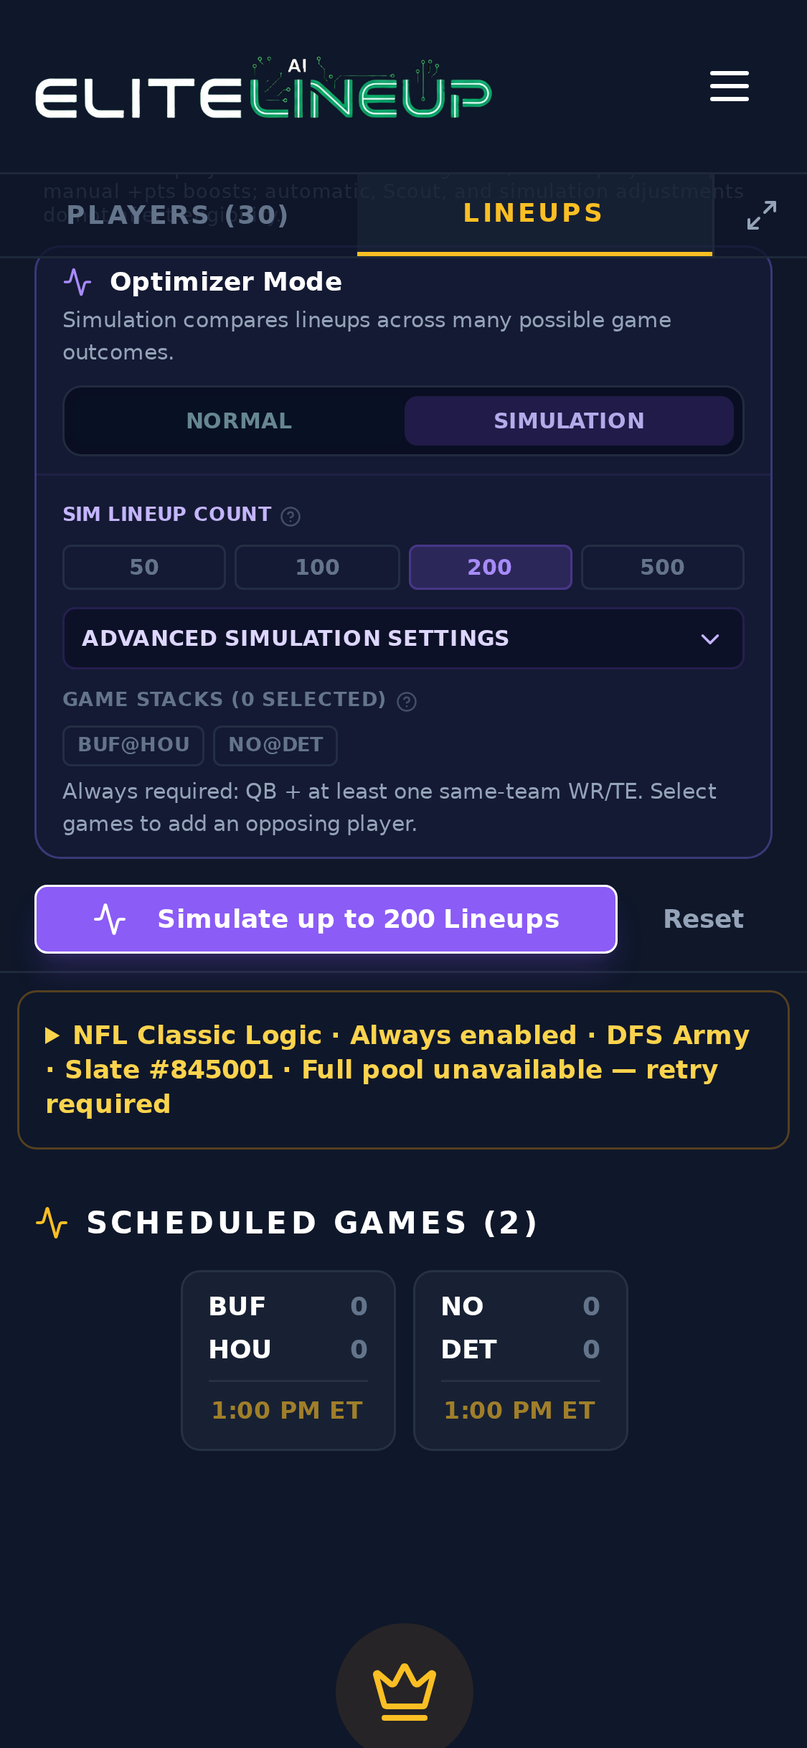
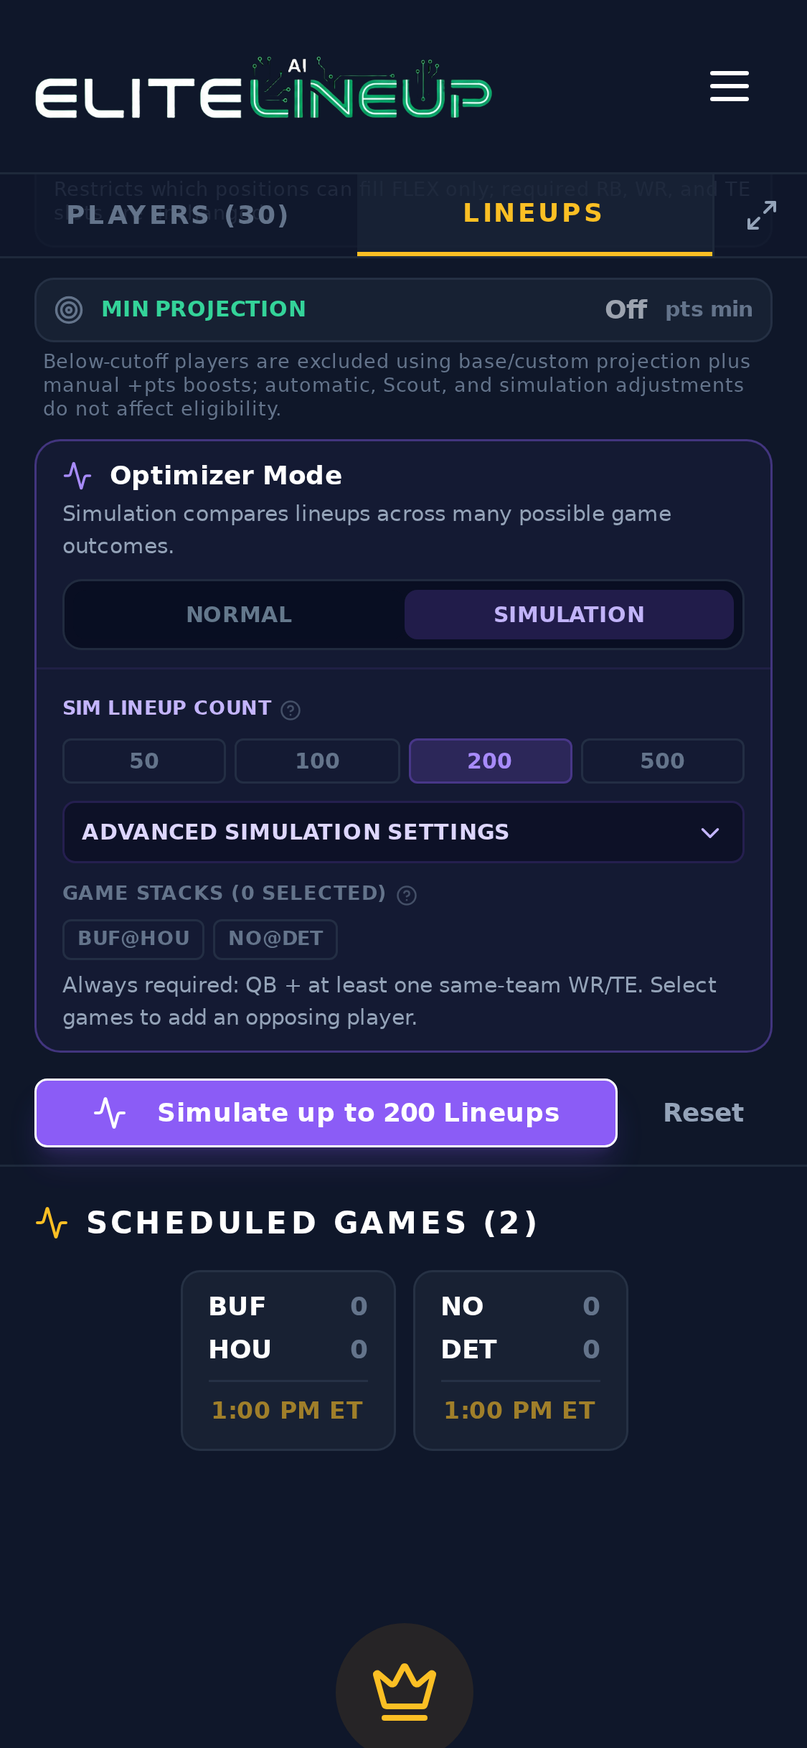
Restored to 76c5adc8257f7eef6a951c2eaf48e008f8643224
Replit-Restored-To: 76c5adc8257f7eef6a951c2eaf48e008f8643224

diff --git a/client/src/pages/PlayerConfiguration.tsx b/client/src/pages/PlayerConfiguration.tsx
@@ -70,7 +70,7 @@ export default function PlayerConfiguration() {
   const [sort, setSort] = useState<Sort>("name");
   const [error, setError] = useState<string | null>(null);
   const [undo, setUndo] = useState<{ player: Player; override: Override } | null>(null);
-  const initializedSlateRef = useRef<string | null>(null);
+  const initializedSlateRef = useRef<number | null>(null);
   const baselineRef = useRef<Record<number, Draft>>({});
   baselineRef.current = baseline;
 
@@ -79,7 +79,7 @@ export default function PlayerConfiguration() {
   }, [slates, slateId]);
 
   const configQuery = useQuery<Configuration>({
-    queryKey: ["/api/player-configuration", user?.id, slateId],
+    queryKey: ["/api/player-configuration", slateId],
     queryFn: async () => {
       const res = await fetch(`/api/player-configuration/${slateId}`, { credentials: "include" });
       if (!res.ok) {
@@ -92,7 +92,7 @@ export default function PlayerConfiguration() {
       }
       return res.json();
     },
-    enabled: !!user && slateId > 0,
+    enabled: slateId > 0,
   });
   const config = configQuery.data;
   const isReadOnly = !!config?.isExpired;
@@ -101,9 +101,8 @@ export default function PlayerConfiguration() {
     if (!config) return;
     const next: Record<number, Draft> = {};
     config.players.forEach(player => { next[player.id] = cleanDraft(player.id, config.overrides.find(o => o.playerId === player.id)); });
-    const scope = `${user?.id}:${config.slate.id}`;
-    if (initializedSlateRef.current !== scope) {
-      initializedSlateRef.current = scope;
+    if (initializedSlateRef.current !== config.slate.id) {
+      initializedSlateRef.current = config.slate.id;
       baselineRef.current = next;
       setDrafts(next); setBaseline(next); setError(null); setUndo(null);
       return;
@@ -118,17 +117,10 @@ export default function PlayerConfiguration() {
       const wasUntouched = JSON.stringify(currentDraft) === JSON.stringify(previous[player.id]);
       return [player.id, wasUntouched ? next[player.id] : currentDraft];
     })));
-  }, [config, user?.id]);
+  }, [config]);
 
   const dirtyIds = useMemo(() => Object.keys(drafts).map(Number).filter(id => JSON.stringify(drafts[id]) !== JSON.stringify(baseline[id])), [drafts, baseline]);
-  const setDraft = (id: number, updates: Partial<Draft>) => setDrafts(current => {
-    const next = { ...(current[id] ?? cleanDraft(id)), ...updates };
-    if (next.isExcluded) {
-      next.isLocked = false;
-      if ((next.minExposure ?? 0) > 0) next.minExposure = null;
-    }
-    return { ...current, [id]: next };
-  });
+  const setDraft = (id: number, updates: Partial<Draft>) => setDrafts(current => ({ ...current, [id]: { ...(current[id] ?? cleanDraft(id)), ...updates } }));
   const selectSlate = (id: number) => {
     if (id === slateId) return;
     if (dirtyIds.length && !window.confirm("Discard unsaved player changes and switch slates?")) return;
@@ -217,7 +209,7 @@ export default function PlayerConfiguration() {
   }
   if (!config) return null;
 
-  return <div className="min-h-[100dvh] w-full min-w-0 max-w-[100vw] overflow-x-hidden bg-[#0F172A] text-slate-100">
+  return <div className="min-h-[100dvh] bg-[#0F172A] text-slate-100">
     <div className="mx-auto max-w-[1500px] px-3 py-5 sm:px-6 lg:py-8">
       <header className="rounded-2xl border border-slate-700/80 bg-slate-900/70 p-5 shadow-2xl shadow-slate-950/20">
         <div className="flex flex-col justify-between gap-5 lg:flex-row lg:items-start">
@@ -238,23 +230,17 @@ export default function PlayerConfiguration() {
             <select aria-label="Filter team" value={team} onChange={e => setTeam(e.target.value)} className="h-10 rounded-md border border-slate-700 bg-slate-950 px-3 text-sm"><option>ALL</option>{teams.map(value => <option key={value}>{value}</option>)}</select></div>
           <div className="flex items-center gap-3"><label className="flex items-center gap-2 whitespace-nowrap text-xs font-bold text-slate-400"><Switch checked={overCapOnly} onCheckedChange={setOverCapOnly} />Above saved cap</label><Button variant="outline" size="sm" onClick={() => setSort(sort === "name" ? "exposure" : "name")}><Filter className="mr-1 h-3.5 w-3.5" />Sort: {sort}</Button>{!isReadOnly && <Button variant="outline" size="sm" onClick={() => { if (window.confirm("Clear all personal player settings for this slate?")) clearMutation.mutate(slateId); }} disabled={clearMutation.isPending}><RotateCcw className="mr-1 h-3.5 w-3.5" />Clear slate</Button>}</div>
         </div>
-        {!isReadOnly && dirtyIds.length > 0 && <div className="space-y-2 border-b border-amber-500/30 p-3">
-          <p role="status" className="text-sm text-amber-200">{dirtyIds.length} player(s) have unsaved changes. Exclusion clears locks and positive minimum exposure.</p>
-          <div className="flex flex-wrap gap-2">{config.players.filter(p => dirtyIds.includes(p.id)).map(player =>
-            <Button key={player.id} size="sm" disabled={saveMutation.isPending} onClick={() => savePlayer(player)}>Save {player.name}</Button>
-          )}</div>
-        </div>}
-        <div className="overflow-x-auto"><table className="w-full min-w-[1120px] text-left"><thead className="bg-slate-950/60 text-[10px] uppercase tracking-wider text-slate-500"><tr><th className="px-4 py-3">Player</th><th>Saved exposure</th><th>Projection</th><th>Boost</th><th>Min / Max per batch</th><th>Exclusion</th><th>Lock</th><th>Notes</th><th className="pr-4 text-right">Actions</th></tr></thead>
+        <div className="overflow-x-auto"><table className="w-full min-w-[1120px] text-left"><thead className="bg-slate-950/60 text-[10px] uppercase tracking-wider text-slate-500"><tr><th className="px-4 py-3">Player</th><th>Saved exposure</th><th>Projection</th><th>Boost</th><th>Min / Max per batch</th><th>Include</th><th>Lock</th><th>Notes</th><th className="pr-4 text-right">Actions</th></tr></thead>
           <tbody className="divide-y divide-slate-800">{rows.map(player => { const draft = drafts[player.id] ?? cleanDraft(player.id); const exposure = config.exposures[String(player.id)]; const over = draft.maxExposure !== null && (exposure?.pct ?? 0) > draft.maxExposure; const field = (key: "minExposure" | "maxExposure") => ({ value: draft[key] ?? "", onChange: (e: ChangeEvent<HTMLInputElement>) => setDraft(player.id, { [key]: inputNumber(e.target.value) }) }); return <tr key={player.id} className={over ? "bg-amber-500/[.045]" : ""}>
             <td className="px-4 py-3"><div className="font-bold text-slate-100">{player.name}</div><div className="mt-0.5 text-xs text-slate-500">{player.position} · {player.team} · ${player.salary.toLocaleString()}</div></td>
             <td className="py-3"><div className={over ? "font-black text-amber-300" : "font-bold text-slate-300"}>{exposure ? formatExposurePct(exposure.pct) : "—"}</div><div className="text-[11px] text-slate-500">{exposure ? `${exposure.count} of ${config.lineupCount}` : "No saved exposure"}</div></td>
             <td><Input aria-label={`${player.name} custom projection`} disabled={isReadOnly} type="number" min="0" max="500" step="0.1" value={draft.customProjection ?? ""} onChange={e => setDraft(player.id, { customProjection: inputNumber(e.target.value) })} placeholder={String(player.projectedPoints)} className="h-8 w-20 border-slate-700 bg-slate-950 px-2 text-xs" /></td>
             <td><select aria-label={`${player.name} boost`} disabled={isReadOnly} value={draft.boostPercent} onChange={e => setDraft(player.id, { boostPercent: Number(e.target.value) as 0 | 5 | 10 | 15 | 20 })} className="h-8 rounded border border-slate-700 bg-slate-950 px-1 text-xs">{[0,5,10,15,20].map(v => <option key={v} value={v}>{v}%</option>)}</select></td>
             <td><div className="flex items-center gap-1"><Input aria-label={`${player.name} minimum exposure`} disabled={isReadOnly} type="number" min="0" max="100" {...field("minExposure")} className="h-8 w-14 border-slate-700 bg-slate-950 px-2 text-xs" /><span className="text-slate-600">/</span><Input aria-label={`${player.name} maximum exposure`} disabled={isReadOnly} type="number" min="0" max="100" {...field("maxExposure")} className="h-8 w-14 border-slate-700 bg-slate-950 px-2 text-xs" /></div></td>
-            <td><Switch aria-label={`${player.name} Exclusion`} disabled={isReadOnly} checked={draft.isExcluded} onCheckedChange={checked => setDraft(player.id, { isExcluded: checked })} /><div className={`text-xs ${draft.isExcluded ? "text-amber-300" : "text-slate-400"}`}>{draft.isExcluded ? "Excluded" : "Eligible"}</div></td>
+            <td><Switch aria-label={`${player.name} excluded`} disabled={isReadOnly} checked={draft.isExcluded} onCheckedChange={checked => setDraft(player.id, { isExcluded: checked, ...(checked ? { isLocked: false } : {}) })} /></td>
             <td><Switch aria-label={`${player.name} locked`} disabled={isReadOnly} checked={draft.isLocked} onCheckedChange={checked => setDraft(player.id, { isLocked: checked })} /></td>
             <td><Input aria-label={`${player.name} notes`} disabled={isReadOnly} maxLength={200} value={draft.notes ?? ""} onChange={e => setDraft(player.id, { notes: e.target.value || null })} className="h-8 w-40 border-slate-700 bg-slate-950 px-2 text-xs" /></td>
-            <td className="pr-4 text-right"><div className="flex justify-end gap-1">{!isReadOnly && <Button aria-label={`Save row for ${player.name}`} size="sm" className="h-8 px-2" disabled={!dirtyIds.includes(player.id) || saveMutation.isPending} onClick={() => savePlayer(player)}><Save className="mr-1 h-3.5 w-3.5" />Save</Button>}{!isReadOnly && baseline[player.id] && <Button variant="ghost" size="sm" className="h-8 px-2 text-slate-400" disabled={resetMutation.isPending} onClick={() => resetMutation.mutate({ playerId: player.id, targetSlateId: slateId })}><RotateCcw className="h-3.5 w-3.5" /><span className="sr-only">Reset {player.name}</span></Button>}</div></td>
+            <td className="pr-4 text-right"><div className="flex justify-end gap-1">{!isReadOnly && <Button size="sm" className="h-8 px-2" disabled={!dirtyIds.includes(player.id) || saveMutation.isPending} onClick={() => savePlayer(player)}><Save className="h-3.5 w-3.5" /><span className="sr-only">Save {player.name}</span></Button>}{!isReadOnly && baseline[player.id] && <Button variant="ghost" size="sm" className="h-8 px-2 text-slate-400" disabled={resetMutation.isPending} onClick={() => resetMutation.mutate({ playerId: player.id, targetSlateId: slateId })}><RotateCcw className="h-3.5 w-3.5" /><span className="sr-only">Reset {player.name}</span></Button>}</div></td>
           </tr>; })}</tbody></table></div>
         {rows.length === 0 && <div className="p-12 text-center text-sm text-slate-500">No players match these view filters.</div>}
       </section>

diff --git a/tests/nfl-portfolio-routes.integration.test.ts b/tests/nfl-portfolio-routes.integration.test.ts
@@ -95,10 +95,6 @@ test("explicit strategy propagates; NFL GPP Resim defaults to structure and neve
     getSubscription: async () => ({ tier: "pro" }),
     getPlayerOverrides: async (_userId: string, slateId: number) => failLegacyExposureGroup && slateId === 78
       ? [{ playerId: 99999, minExposure: 100, maxExposure: 100 }] : slateId === 77 ? savedPlayerOverrides : [],
-    upsertPlayerOverride: async (data: any) => {
-      savedPlayerOverrides = [...savedPlayerOverrides.filter(o=>o.playerId!==data.playerId),data];
-      return data;
-    },
     getZeroPointPlayerNames: async () => [],
     getLineup: async (id: number) => ({ id, slateId: id === 4 ? 78 : 77, userId: id === 999 ? "other" : "owner", sport: "NFL", platform: "draftkings" }),
     createLineup: async (payload: any) => { writes.push(payload); return { id: 500, ...payload }; },
@@ -122,8 +118,7 @@ test("explicit strategy propagates; NFL GPP Resim defaults to structure and neve
     computeCorrelationBonus: () => 0,
   });
   mock("../server/market-projections.ts", { applyMarketProjectionBlend: identity });
-   mock("../server/variance-profiles.ts", { getEmpiricalCV: (_sport: string, _position: string, _projection: number, prior: number) => prior });
-   const simulationEngine = require("../server/simulation-engine.ts");
+  const simulationEngine = require("../server/simulation-engine.ts");
   mock("../server/simulation-engine.ts", {
     ...simulationEngine,
     runSimulations: (...args: any[]) => {
@@ -139,6 +134,7 @@ test("explicit strategy propagates; NFL GPP Resim defaults to structure and neve
   mock("../server/ai-scout.ts", { getCachedSignals: () => [] });
   mock("../server/espn-activity.ts", { getRecentlyPlayedCache: () => new Set(), normalizePlayerName: (s: string) => s });
   mock("../server/vegas-client.ts", { buildVegasContext: async () => null });
+  mock("../server/variance-profiles.ts", { getEmpiricalCV: (_sport: string, _position: string, _projection: number, prior: number) => prior });
   mock("../server/dvp-client.ts", { buildOpponentMap: () => new Map(), buildDvPContext: async () => null });
   mock("../server/balldontlie-stats.ts", { fetchBDLStats: async () => new Map() });
   mock("../server/ownership-engine.ts", {
@@ -177,8 +173,7 @@ test("explicit strategy propagates; NFL GPP Resim defaults to structure and neve
     },
   });
   const handlers = new Map<string, any>();
-   const putHandlers = new Map<string, any>();
-   const app = { set() {}, use() {}, get() {}, delete() {}, put(path: string, ...fns: any[]) { putHandlers.set(path, fns.at(-1)); }, patch() {}, post(path: string, ...fns: any[]) { handlers.set(path, fns.at(-1)); } };
+  const app = { set() {}, use() {}, get() {}, delete() {}, put() {}, patch() {}, post(path: string, ...fns: any[]) { handlers.set(path, fns.at(-1)); } };
   const httpApp = express();
   httpApp.use(express.json());
   httpApp.use((req, _res, next) => { (req as any).session = { userId: "owner" }; next(); });
@@ -197,30 +192,8 @@ test("explicit strategy propagates; NFL GPP Resim defaults to structure and neve
     assert.equal(routes.simRegenerationRuntimeMs(1_000), 90_000);
     await routes.registerRoutes({}, app);
     for (const [path, handler] of handlers) httpApp.post(path, handler);
-    for (const [path, handler] of putHandlers) httpApp.put(path, handler);
     await new Promise<void>(resolve => server.listen(0, "127.0.0.1", resolve));
     baseUrl = `http://127.0.0.1:${(server.address() as AddressInfo).port}`;
-    if (process.env.EXCLUSION_REGRESSION === "1") {
-      savedPlayerOverrides = [{playerId:2,slateId:77,userId:"owner",isLocked:true,minExposure:100}];
-      const response = await fetch(`${baseUrl}/api/player-overrides/77/2`,{method:"PUT",headers:{"Content-Type":"application/json"},body:JSON.stringify({isExcluded:true})});
-      assert.equal(response.status,200);
-      const setting:any = await response.json();
-      assert.equal(setting.isExcluded,true);assert.equal(setting.isLocked,false);assert.equal(setting.minExposure,null);
-      for (const path of ["/api/optimize","/api/optimize/pro","/api/optimize/sim","/api/lineups/sim-regenerate"]) {
-        const before = writes.length;
-        const result = await invoke(path,{slateId:77,contestType:"cash",ids:[1],lineupCount:1,numSims:50,globalMaxExposure:100,useBoosts:false});
-        if(path.includes("regenerate")) {
-          assert.ok(writes.length>before,path);
-          assert.ok(writes.slice(before).every(w=>!w.playerIds.includes(2)),path);
-        } else {
-          const lineups = result.lineups ?? [result];
-          assert.ok(lineups.length>0,path);
-          assert.ok(lineups.every((l:any)=>l.lineup.length>0&&!l.lineup.some((p:any)=>p.id===2)),path);
-        }
-      }
-      console.log("Saved exclusion propagation verified for 4 routes");
-      return;
-    }
     const settings = nflPortfolioSettingsSchema.parse({ enabled: true });
     const common = { slateId: 77, contestType: "gpp", nflPortfolio: settings, nflPortfolioLineupPolicy: { catcherCount: 999, minLowOwnedPlayers: 999 } };
     const normal = await invoke("/api/optimize", common);

diff --git a/tests/e2e/player-configuration.spec.ts b/tests/e2e/player-configuration.spec.ts
@@ -1,23 +1,4 @@
 import { expect, test, type Page } from "@playwright/test";
-test.setTimeout(90_000);
-
-test.beforeEach(async ({ page, baseURL }) => {
-  // Third-party font/payment scripts are not part of configuration persistence.
-  await page.route("**/*", route => {
-    const url = new URL(route.request().url());
-    if (url.hostname === "js.stripe.com") return route.fulfill({contentType:"application/javascript",body:"window.Stripe = function () { return {}; };"});
-    return url.origin === new URL(baseURL!).origin ? route.fallback() : route.abort();
-  });
-});
-
-async function saveAlpha(page: Page) {
-  // Exercise keyboard activation as well as switch clicks. Chromium mobile
-  // emulation can pan its visual viewport independently after a wide table scroll.
-  const save = page.getByRole("button", {name:"Save Alpha Guard",exact:true});
-  await expect(save).toBeEnabled();
-  await save.focus();
-  await save.press("Enter");
-}
 
 const slates = [
   { id: 901, sport: "NBA", platform: "draftkings", name: "Thursday Main", startTime: "2099-10-04T23:00:00Z", isActive: true, isMain: true, gameCount: 4 },
@@ -132,47 +113,15 @@ test("filters existing saved exposure by the current slate denominator and repor
   await page.getByText("Above saved cap").click();
   await expect(page.getByText("Alpha Guard", { exact: true })).toBeVisible();
   await expect(page.getByText("Bravo Wing")).toHaveCount(0);
-  await page.getByLabel("Alpha Guard minimum exposure").fill("90");
+  await page.getByLabel("Alpha Guard excluded").click();
+  await page.getByLabel("Alpha Guard minimum exposure").fill("10");
   await page.getByRole("button", { name: "Save Alpha Guard" }).click();
-  await expect(page.getByRole("alert")).toContainText("Minimum exposure cannot exceed maximum exposure");
+  await expect(page.getByRole("alert")).toContainText("excluded player cannot have a positive minimum exposure");
   await page.reload();
   await page.getByLabel("Alpha Guard notes").fill("try server error");
   api.failSave();
   await page.getByRole("button", { name: "Save Alpha Guard" }).click();
   await expect(page.getByRole("alert")).toContainText("Database write declined");
-});
-
-test("exclusion clears prior conflicts, survives reload, and unexclude does not restore them", async ({page}) => {
-  const api = await installConfigurationMock(page);
-  api.store[901] = {9011:{playerId:9011,isLocked:true,minExposure:50,isExcluded:false}};
-  await page.goto("/player-config?slateId=901", {waitUntil:"domcontentloaded"});
-  await expect(page.getByRole("columnheader",{name:"Exclusion",exact:true})).toBeVisible();
-  await page.getByLabel("Alpha Guard Exclusion").click();
-  await expect(page.getByLabel("Alpha Guard locked")).not.toBeChecked();
-  await expect(page.getByLabel("Alpha Guard minimum exposure")).toHaveValue("");
-  await expect(page.getByRole("status").filter({hasText:"unsaved changes"})).toBeVisible();
-  api.failSave();
-  await saveAlpha(page);
-  await expect(page.getByRole("alert")).toContainText("Database write declined");
-  await expect(page.getByLabel("Alpha Guard Exclusion")).toBeChecked();
-  await saveAlpha(page);
-  await expect.poll(()=>api.writes.length).toBe(1);
-  expect(api.writes[0].body).toMatchObject({isExcluded:true,isLocked:false,minExposure:null});
-  await page.reload({waitUntil:"domcontentloaded"});
-  await expect(page.getByLabel("Alpha Guard Exclusion")).toBeChecked();
-  await page.goto("/player-config?slateId=902", {waitUntil:"domcontentloaded"});
-  await expect(page.getByLabel("Alpha Guard Exclusion")).not.toBeChecked();
-  await page.goto("/player-config?slateId=901", {waitUntil:"domcontentloaded"});
-  await page.getByLabel("Alpha Guard Exclusion").click();
-  await saveAlpha(page);
-  await expect.poll(()=>api.writes.length).toBe(2);
-  expect(api.writes[1].body).toMatchObject({isExcluded:false,isLocked:false,minExposure:null});
-  await page.reload({waitUntil:"domcontentloaded"});
-  await expect(page.getByLabel("Alpha Guard Exclusion")).not.toBeChecked();
-  await expect(page.getByLabel("Alpha Guard locked")).not.toBeChecked();
-  await page.goto("/player-config?slateId=903", {waitUntil:"domcontentloaded"});
-  await expect(page.getByLabel("Alpha Guard Exclusion")).toBeDisabled();
-  await page.screenshot({path:`/tmp/player-exclusion-${test.info().project.name}.png`});
 });
 
 test("preserves exact inactive slates as read-only and contextual links retain the selected slate", async ({ page }) => {

diff --git a/tests/player-configuration-http.test.ts b/tests/player-configuration-http.test.ts
@@ -72,21 +72,7 @@ test("configuration HTTP persistence, scope, validation, expiry and resets", asy
     assert.equal((await request("GET", "/api/player-configuration/1", undefined, "")).status, 401);
     assert.equal((await put({ maxExposure: null, customProjection: null, boostPercent: null })).body.maxExposure, null);
     assert.equal((await put({ isLocked: true })).status, 200);
-    await put({ minExposure: 50 });
-    const excluded = await put({ isExcluded: true });
-    assert.equal(excluded.status, 200);
-    assert.equal(excluded.body.isLocked, false);
-    assert.equal(excluded.body.minExposure, null);
-    assert.equal((await request("GET", "/api/player-configuration/1")).body.overrides[0].isExcluded, true);
-    assert.equal((await request("GET", "/api/player-configuration/2")).body.overrides.length, 0);
-    assert.equal((await request("GET", "/api/player-configuration/1", undefined, "b")).body.overrides.length, 0);
-    const contradictory = await put({ isLocked: true, minExposure: 90 });
-    assert.equal(contradictory.body.isLocked, false);
-    assert.equal(contradictory.body.minExposure, null);
-    const included = await put({ isExcluded: false });
-    assert.equal(included.body.isExcluded, false);
-    assert.equal(included.body.isLocked, false);
-    assert.equal(included.body.minExposure, null);
+    assert.equal((await put({ isExcluded: true })).status, 400);
     const expired = await request("GET", "/api/player-configuration/3");
     assert.equal(expired.body.isExpired, true);
     assert.equal(expired.body.expiresAt, "2020-01-02T02:00:00.000Z");

diff --git a/server/player-configuration.ts b/server/player-configuration.ts
@@ -95,10 +95,6 @@ export function registerPlayerConfiguration(app: Express, storage: Configuration
       }
       const old = overrides.find(o => o.playerId === player.id);
       const merged = { ...old, ...patch };
-      if (merged.isExcluded) {
-        merged.isLocked = false;
-        if ((merged.minExposure ?? 0) > 0) merged.minExposure = null;
-      }
       if ((merged.minExposure ?? 0) > (merged.maxExposure ?? 100) ||
           (merged.isLocked && (merged.isExcluded || (merged.maxExposure ?? 100) < 100)) ||
           (merged.isExcluded && (merged.minExposure ?? 0) > 0)) return res.status(400).json({ message: "Conflicting lock, exclusion, or exposure settings." });

diff --git a/.agents/memory/MEMORY.md b/.agents/memory/MEMORY.md
@@ -18,7 +18,6 @@
 - [Stack alternatives](stack-alternative-semantics.md) — favorites are alternative requirements; unselected stacks must not impose dependent constraints.
 - [Sport-specific slate selection](draftkings-sport-selection.md) — NFL ranking changes need MLB Classic/Showdown regression coverage and live contest-type verification.
 - [Player configuration scope](player-configuration-scope.md) — saved settings belong to an exact user/slate; stale requests cannot loosen caps and Resim must not inherit another slate's settings.
-- [Player configuration browser checks](player-configuration-browser-checks.md) — mobile viewport panning can misdirect automated clicks; retain keyboard and explicit touch coverage.
 - [Optimizer control visibility](optimizer-control-visibility.md) — responsive visual changes must not hide existing setup controls behind new laptop tabs.
 - [Historical data retention](historical-data-retention.md) — saved lineups and player history must be retained indefinitely for analysis.
 - [NBA activation](nba-activation.md) — NBA should be active and highlighted on the landing page, not merely exposed in menus.

diff --git a/.agents/memory/player-configuration-scope.md b/.agents/memory/player-configuration-scope.md
@@ -14,9 +14,3 @@ Saved player caps are authoritative across generation modes, and must combine wi
 **Why:** A stale optimizer tab or a different Resim screen must not undo a cap the user just saved. Saved-lineup exposure is historical reporting; changing a cap does not itself rewrite those lineups.
 
 **How to apply:** Apply saved attributes server-side and enforce caps on the actual generated batch. Make reset explicit, distinguish historical exposure from new-batch limits, and preserve unsaved edits to other players when saving one row.
-
-Exclusion wins over a lock or positive minimum exposure, including partial updates. Clearing exclusion must not restore those old conflicting settings.
-
-**Why:** Excluding a player must be one action rather than requiring the user to find and clear hidden conflicts first.
-
-**How to apply:** Normalize both interactive edits and merged server updates while retaining unrelated caps, projections and notes.
